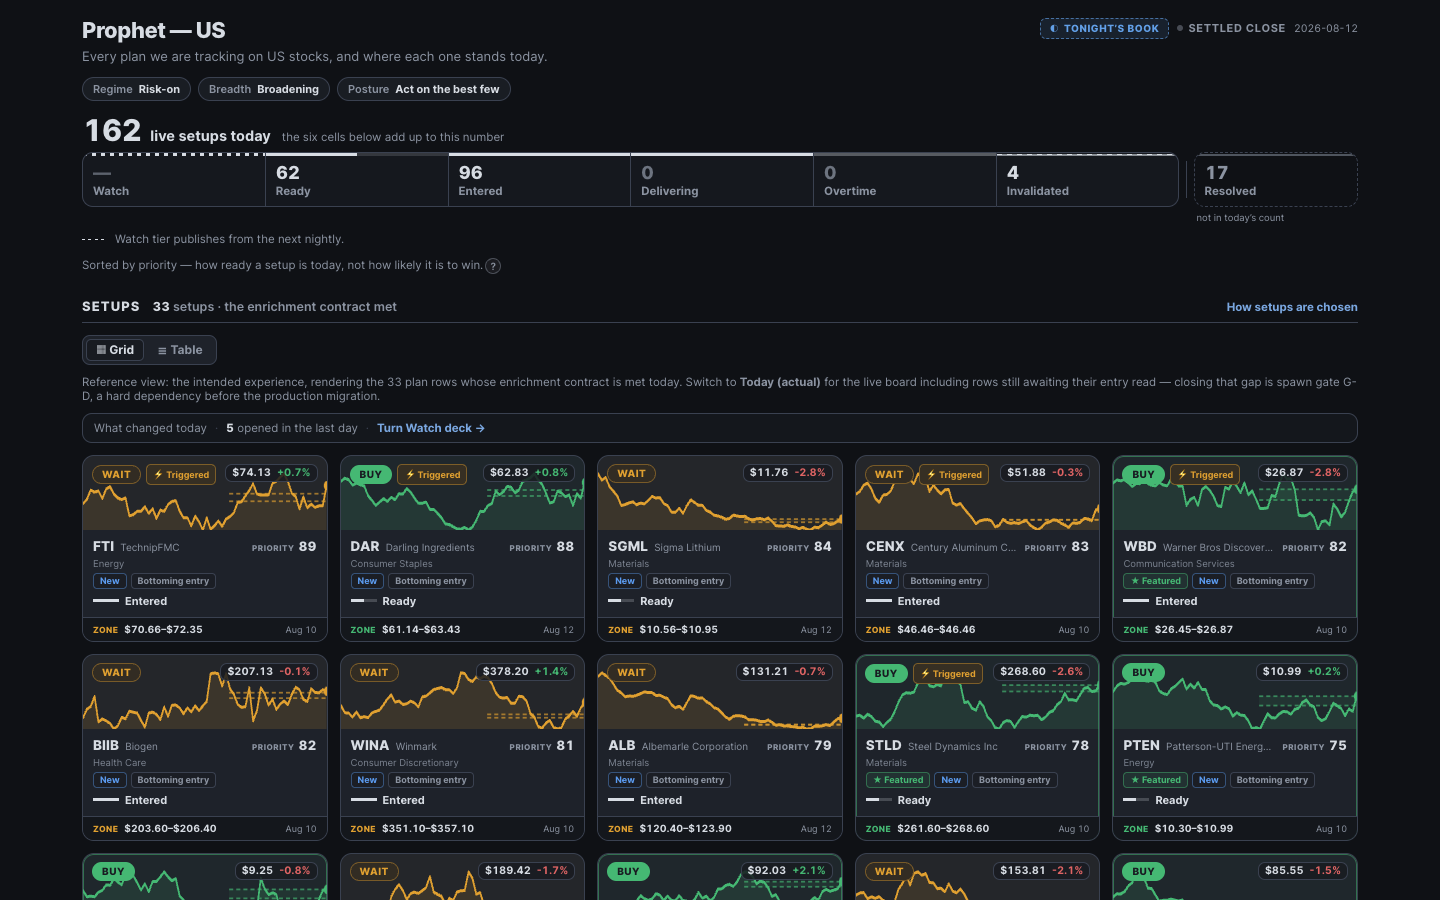
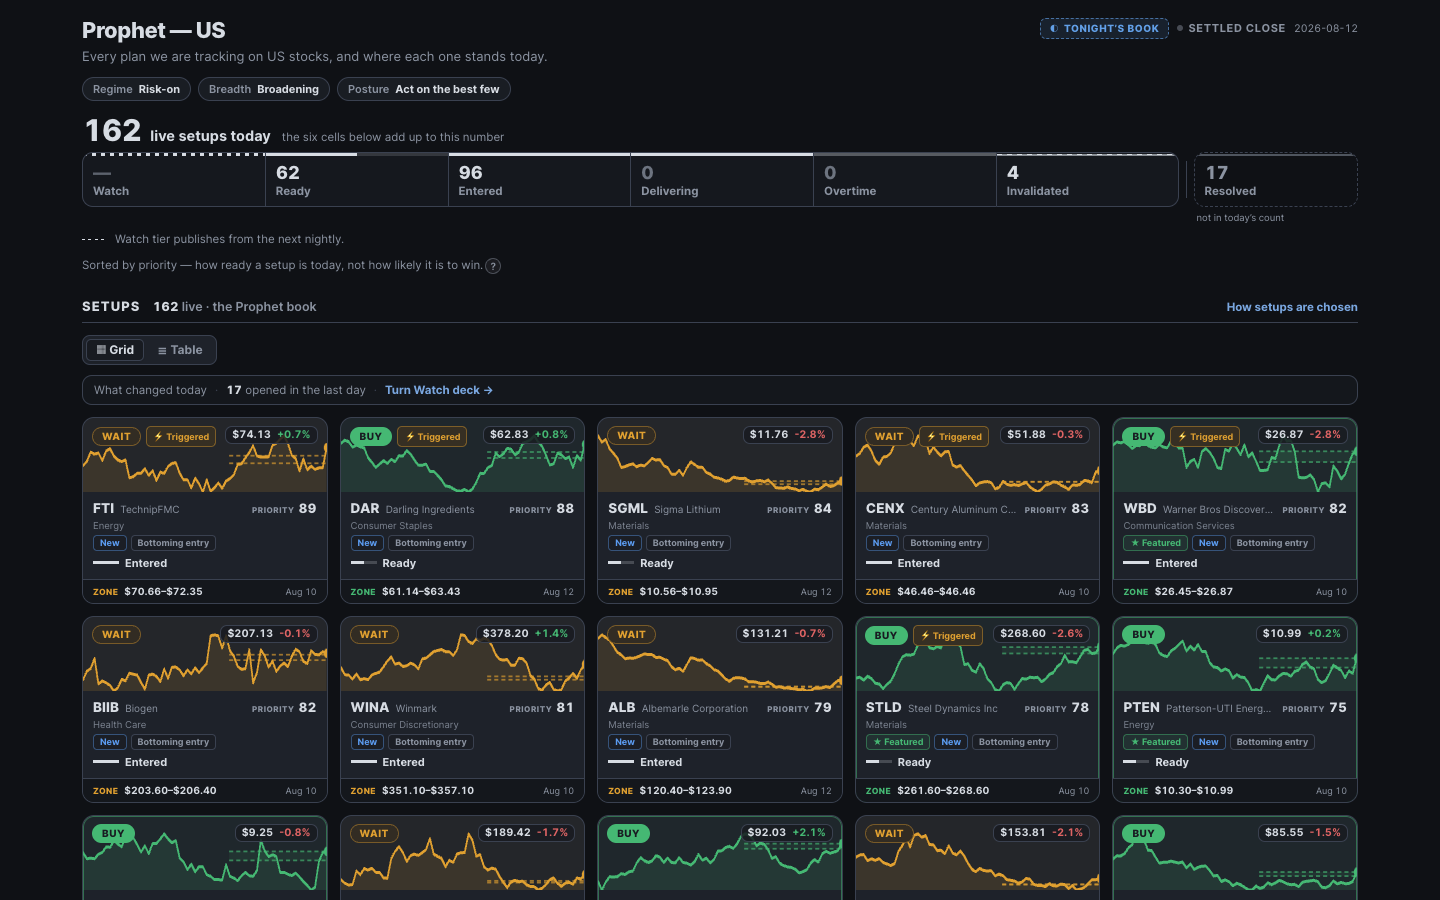
design: G-C hygiene pass — canonical population on the surface, no fixture language
No visual changes. Composition, card anatomy, ladder, colour, typography,
spacing, density, ordering and responsive behaviour are untouched.

1. PRODUCT SURFACE CARRIES ONLY PRODUCT SEMANTICS
The reference view's Setups header now states the canonical population —
"162 live · the Prophet book" — and the grid reconciles to it (rendered + "+N
more" == the live headline). The "33 contract-met setups" semantic, the
reference/enrichment sentence and the G-D gate name are gone from every
user-visible string; 33 survives only as an internal fixture fact in a source
comment and in DESIGN_NOTES. The diagnostic lenses keep factual notes but lose
the process vocabulary.

2. "WHAT CHANGED TODAY" IS A BOARD-LEVEL FACT
It now reads the full plan book instead of whatever subset the grid is
rendering, so it is identical across every lens (17, not 5-on-the-reference).
Still only the figure with a full-book producer is printed — the entered/
resolved transition counts have none (§6 Q3).

3. DESIGN_NOTES Q9 rewritten to the implemented rule: ⚡ Triggered from
membership in setups.json.buy, Imminent from signal.tier_cascade == "T3", no
plan-age proxy anywhere; 8 triggered / 0 imminent today.

New guards: N3b (reference reconciles to the live headline), N3c (header states
the canonical population), N7 (no reference/fixture/gate vocabulary on the
product surface, both languages), N8 (board-level facts invariant across lenses).
[…]

Changed region(s): [[0.0312, 0.4044, 0.9375, 1.0], [0.125, 0.3111, 0.2188, 0.3422]]

diff --git a/mockups/refs/institutionalize/us_stocks/board.js b/mockups/refs/institutionalize/us_stocks/board.js
@@ -435,10 +435,7 @@
     var enriched = B.rows.filter(function (x) {
       return x.spark && x.stance && x.stance !== "blocked_data";
     }).length;
-    h += '<span class="mx-sec-total">' + (isRef && !S.life
-      ? t("<b>" + r.length + "</b> setups &middot; the enrichment contract met",
-          "<b>" + r.length + "</b> 条 &middot; 数据已完整")
-      : isFall
+    h += '<span class="mx-sec-total">' + (isFall
       ? t("<b>" + r.length + "</b> rows the screener join does not reach",
           "候选关联未覆盖的 <b>" + r.length + "</b> 条")
       : isEps
@@ -466,15 +463,14 @@
     h += '<button data-view="grid" aria-selected="' + (S.view === "grid") + '">&#9638; ' + t("Grid", "卡片") + "</button>";
     h += '<button data-view="table" aria-selected="' + (S.view === "table") + '">&#9776; ' + t("Table", "表格") + "</button>";
     h += "</span>";
-    if (isRef) {
-      h += '<span class="sort-rule">' + t(
-        "Reference view: the intended experience, rendering the " + enriched + " plan rows whose enrichment contract is met today. Switch to <b>Today (actual)</b> for the live board including rows still awaiting their entry read — closing that gap is spawn gate G-D, a hard dependency before the production migration.",
-        "参考视图：呈现目标体验，仅显示今日数据已完整的 " + enriched + " 条计划。切换到<b>「实际」</b>可查看完整看板，其中包含尚未取得入场判读的计划——补齐这一缺口是正式迁移前的硬性前置条件（G-D）。") + "</span>";
-    }
+    /* The reference view carries NO lens sentence: it is the product surface, and
+       which subset the fixture can render at full fidelity is an internal fact,
+       not something a reader should be told. The coverage question lives in
+       DESIGN_NOTES §6/§7 and in the diagnostic states below. */
     if (isFall) {
       h += '<span class="sort-rule">' + t(
-        "Mockup-gate lens: the missing-enrichment fallback. These rows carry no chart, quote, company name or lane mark because those five fields arrive through the candidate join, which reaches only " + enriched + " of " + B.rows.length + " plan rows today. The card still reads — but closing this gap is a blocking implementation dependency, not a design target.",
-        "样稿评审视角：数据缺失时的降级形态。这些计划没有图表、报价、公司名称与通道标记，因为这几项来自候选名单的关联，目前仅覆盖 " + B.rows.length + " 条中的 " + enriched + " 条。卡片仍然可读——但补齐这一缺口是正式迁移前的硬性前置条件，而不是设计目标。") + "</span>";
+        "Diagnostic view: how a card reads when the chart, quote, company name and lane mark are unavailable. The card still answers ticker, stance, priority, lifecycle and zone.",
+        "诊断视图：当图表、报价、公司名称与通道标记不可用时，卡片的呈现方式。此时仍可读出代码、判断、优先级、状态与买区。") + "</span>";
     }
     if (isEps) {
       h += '<span class="sort-rule">' + t(
@@ -503,9 +499,15 @@
       return h;
     }
 
-    /* "What changed today" — a labelled slice of today's transitions. Only the
-       derivable figure is printed; see DESIGN_NOTES §Open questions. */
-    var fresh = r.filter(function (x) { return x.age != null && x.age <= 1; }).length;
+    /* "What changed today" — a labelled slice of today's transitions, computed
+       over the FULL plan book, never over whatever subset the grid happens to be
+       rendering: a board-level fact that moved with the visible rows would be a
+       different number on every lens. Only the figure with a full-book producer
+       is printed (see DESIGN_NOTES §6 Q3 — the entered/resolved transition counts
+       have none). */
+    var fresh = B.rows.filter(function (x) {
+      return x.life !== "resolved" && x.age != null && x.age <= 1;
+    }).length;
     h += '<div class="chg-strip">';
     h += '<span class="chg-item">' + t("What changed today", "今日变化") + "</span>";
     h += '<span class="chg-sep">&middot;</span>';
@@ -554,11 +556,17 @@
     }
 
     var shown = r.slice(0, GRID_CAP);
+    /* THE POPULATION IS THE CANONICAL COUNT, not however many cards this view
+       happens to draw. On the product states that is the published cell/live
+       total, so rendered + "+N more" reconciles to the headline exactly. The
+       diagnostic lenses state their own scope in their header instead. */
+    var population = (isEps || isFall) ? r.length
+                   : (S.life ? cellCount(S.life) : liveTotal());
     h += '<div class="pv-grid">';
     shown.forEach(function (x) { h += card(x); });
     /* overflow is a computed DIFFERENCE of published values, never a recount */
-    if (r.length > GRID_CAP) {
-      var more = r.length - GRID_CAP;
+    if (population > shown.length) {
+      var more = population - shown.length;
       h += '<a class="pv-more" href="?' + qsWith({ view: "table" }) + '">' +
            t("+<b class=\"fig\">" + more + "</b> more<br>see them all in table view",
              "另有 <b class=\"fig\">" + more + "</b> 条<br>可在表格视图中查看全部") + "</a>";

diff --git a/mockups/refs/institutionalize/us_stocks/tools/verify.py b/mockups/refs/institutionalize/us_stocks/tools/verify.py
@@ -338,6 +338,30 @@ def main():
             ok(f"N3[{lang}] every reference card is chart-first",
                ref["charts"] == ref["n"], f"{ref['charts']} of {ref['n']}")
 
+            # N3b: the reference states the CANONICAL product population and
+            # reconciles to it — no fixture/enrichment semantic on the surface.
+            recon = pg.evaluate("""() => {
+              const m = document.querySelector('.pv-more');
+              const more = m ? parseInt((m.textContent.match(/\\d+/)||[0])[0],10) : 0;
+              const tot = document.querySelector('.mx-sec-total');
+              return {cards: document.querySelectorAll('.pvcard').length, more,
+                      total: tot ? tot.textContent : '',
+                      head: parseInt(document.querySelector('.ladder-n').textContent.trim(), 10)};
+            }""")
+            ok(f"N3b[{lang}] reference: rendered + '+N' == the live headline",
+               recon["cards"] + recon["more"] == recon["head"],
+               f"{recon['cards']}+{recon['more']} vs {recon['head']}")
+            ok(f"N3c[{lang}] reference header states the canonical population",
+               str(recon["head"]) in recon["total"], f"total={recon['total']!r}")
+
+            # N7: no fixture / enrichment / gate vocabulary on the product surface
+            surf = pg.evaluate("() => document.getElementById('board').innerText")
+            leaks = [w for w in ("G-D", "contract met", "enrichment", "Reference view",
+                                 "fixture", "数据已完整", "参考视图", "准入条件")
+                     if w in surf]
+            ok(f"N7[{lang}] no reference/fixture/gate language on the product surface",
+               not leaks, f"found {leaks}")
+
             # N4: the live-quote slot exists on EVERY card, hydratable or not
             q = pg.evaluate("""() => {
               const cards = [...document.querySelectorAll('.pvcard')];
@@ -401,6 +425,21 @@ def main():
             ok(f"N6[{lang}] the spark is recoloured to the stance hue",
                spark and spark["stroke"] and spark["pvh"], f"{spark}")
             pg.close()
+
+        # ── N8: board-level facts are invariant across lenses ───────────────
+        # "What changed today" is a fact about the plan book, so it may not move
+        # with whatever subset a view happens to render.
+        import re as _re
+        seen = {}
+        for st in ("paid", "today", "fallback"):
+            pg = page_at(f"theme=dark&lang=en&state={st}")
+            el = pg.query_selector(".chg-strip")
+            if el:
+                m = _re.search(r"(\d+)", el.inner_text())
+                seen[st] = int(m.group(1)) if m else None
+            pg.close()
+        ok("N8 'what changed today' is identical across every lens",
+           len(set(v for v in seen.values() if v is not None)) == 1, str(seen))
 
         # ── H. 390w ────────────────────────────────────────────────────────
         for lang in ("en", "zh"):

diff --git a/mockups/refs/institutionalize/us_stocks/DESIGN_NOTES.md b/mockups/refs/institutionalize/us_stocks/DESIGN_NOTES.md
@@ -34,7 +34,7 @@ python3 -m http.server 8792 --directory mockups/refs/institutionalize/us_stocks
 ```bash
 python3 tools/gen_fixture.py board-data.js      # regenerate data from origin/main
 python3 tools/capture.py  http://localhost:8792 crops
-python3 tools/verify.py   http://localhost:8792 # 116/116 acceptance checks
+python3 tools/verify.py   http://localhost:8792 # 123/123 acceptance checks
 ```
 
 **The data is real.** `board-data.js` is a committed extract of `site/prophet/index.json`
@@ -55,9 +55,11 @@ The composition passed Product/Taste review — ladder, density, card anatomy, P
 lifecycle treatment, Zone footer and chroma level are settled and are **not** revisited. Five
 narrow corrections were applied; no structural redesign.
 
-**1. The canonical reference now shows the intended experience.** `state=paid` is the reference
-view and renders only the **33 plan rows whose enrichment contract is met today** — zero no-read
-cards. `state=today` is the honesty state showing the actual payload including the 60% awaiting
+**1. The canonical reference now shows the intended experience.** `state=paid` renders the plan
+rows the fixture can draw at full fidelity (33 today — an internal fixture fact, never surfaced),
+and states the **canonical product population: 162 live · the Prophet book**, reconciling
+rendered + "+N more" to that headline. No reference/enrichment/gate vocabulary appears on the
+product surface at all (`verify.py` N7). `state=today` is the honesty state showing the actual payload including the 60% awaiting
 their entry read, and is the state the count law is verified against. A 60%-`暂无判断` board must
 not become the flagship reference. **New spawn gate G-D** (§7) makes coverage a hard production
 dependency.
@@ -383,13 +385,26 @@ Priority stays in the slot, `score_edge` is retained as the fail-soft for legacy
 The Board card carries one number, not both. No change to the mockup; the question should not have
 been raised.
 
-### Q9 — APPROVED: ⚡ stays restricted
+### Q9 — CLOSED: ⚡ is sourced from the trigger producer
 
-**Ruled (operator 2026-08-13): the restricted treatment is approved.** `Entered` is durable
-lifecycle state; ⚡ means a *recent transition or event*. Putting it on all 96 entered cards would
-display the same fact twice and turn a valuable event badge into wallpaper.
+**Ruled and implemented.** ⚡ carries a real trigger fact, from the producer the shipped board
+already reads (`dashboard.html.j2:16187-16189`):
 
-⚡ therefore fires only on a recent trigger (≤3 days) or an imminent one — **10 of 179 rows**.
+| Chip | Source | Today |
+|---|---|---|
+| ⚡ **Triggered** | membership in `site/factordata/setups.json` → `buy` | **8** rows |
+| ⚡ **Imminent** | that row's `signal.tier_cascade == "T3"` | **0** rows |
+
+There is **no plan-age proxy**. The earlier pass approximated Triggered from `age_days <= 3` and
+Imminent from `Ready + buy_now`; both were removed. Imminent is 0 because nothing carries `T3`
+tonight — an honest zero from a real producer, not four cards inferred from a neighbouring field.
+
+The restriction the operator approved holds by construction rather than by a rule: `Entered` is
+durable lifecycle state, ⚡ is a recent transition/event, and only 8 of 179 rows have one. Putting
+⚡ on all 96 entered cards would state the same fact twice and turn an event badge into wallpaper.
+
+Coverage caveat: `setups.json` is a 12-row artifact and intersects the plan book at 8, so ⚡ is
+join-limited like the other enrichments (§6 Q1). Sourced-or-absent, never approximated.
 
 ### Q10 — NEW: the change values in the crops are simulated
 
@@ -447,7 +462,7 @@ rather than argued.
 - `50`–`51` empty board · `60`–`61` table view
 - `70`–`73` **the three-way card adjudication** (production · #5514 v1 · revised), dark+light × EN+ZH
 
-**Checks:** `tools/verify.py` — **116/116 passing**, run against the *rendered* page and
+**Checks:** `tools/verify.py` — **123/123 passing**, run against the *rendered* page and
 mutation-tested (planting "stage"/阶段 and a lifecycle cell word inside Candidates makes it fail
 in both languages). Zero horizontal page scroll at every captured width, asserted per shot.
 
